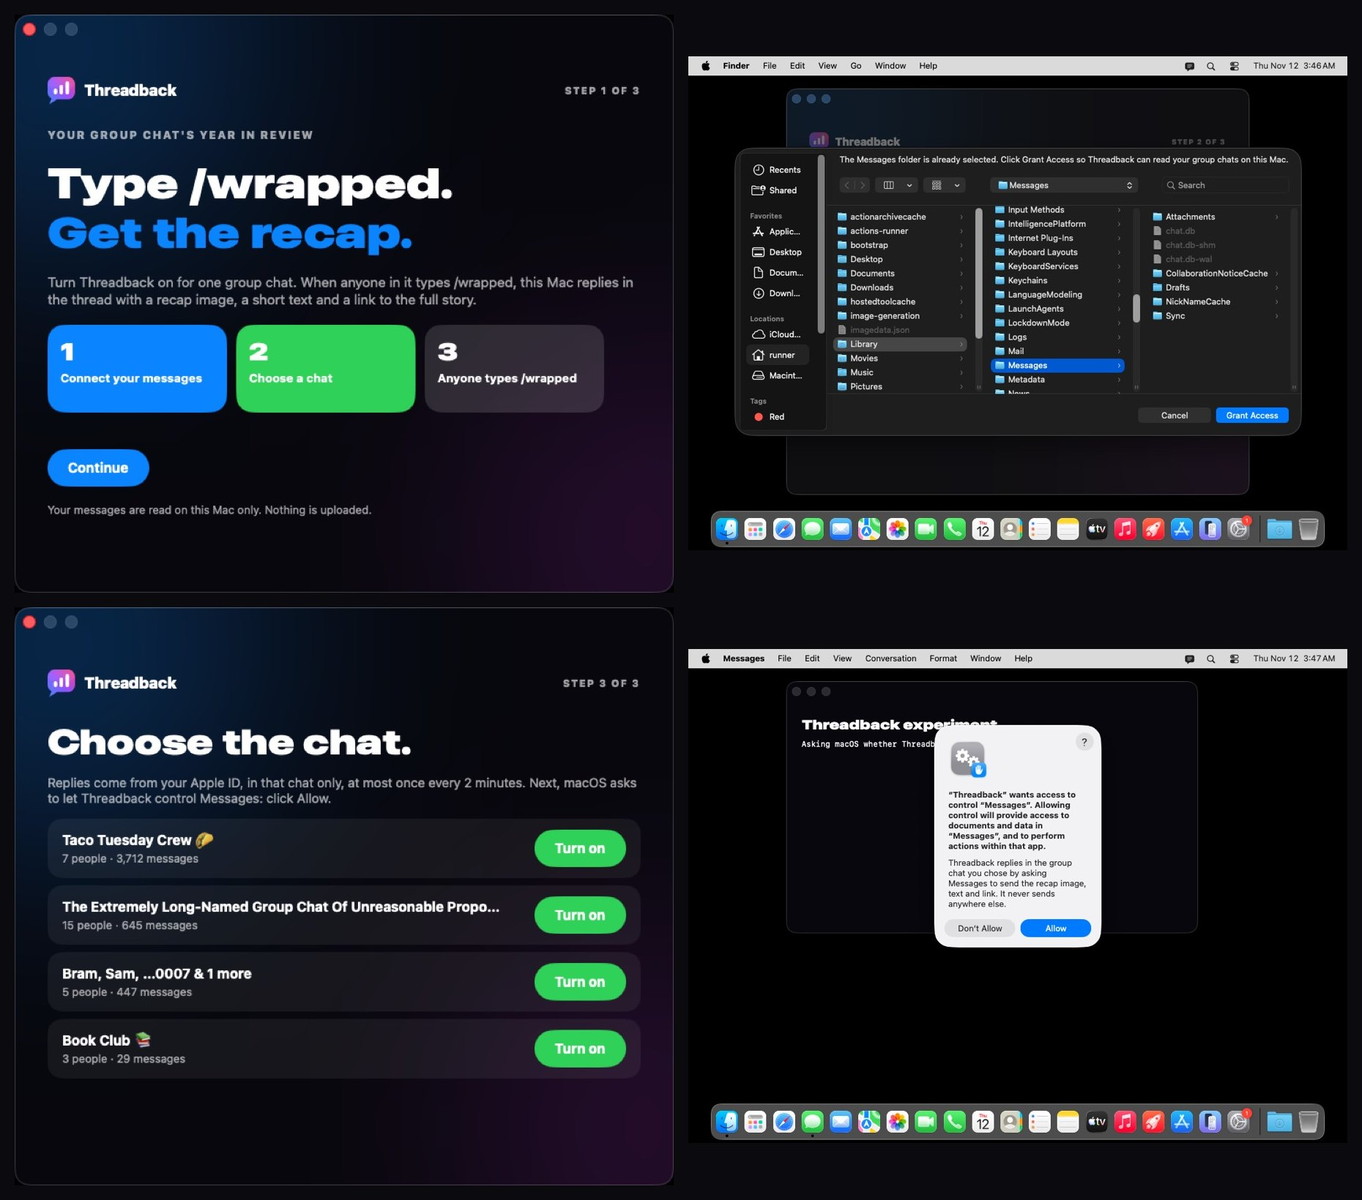
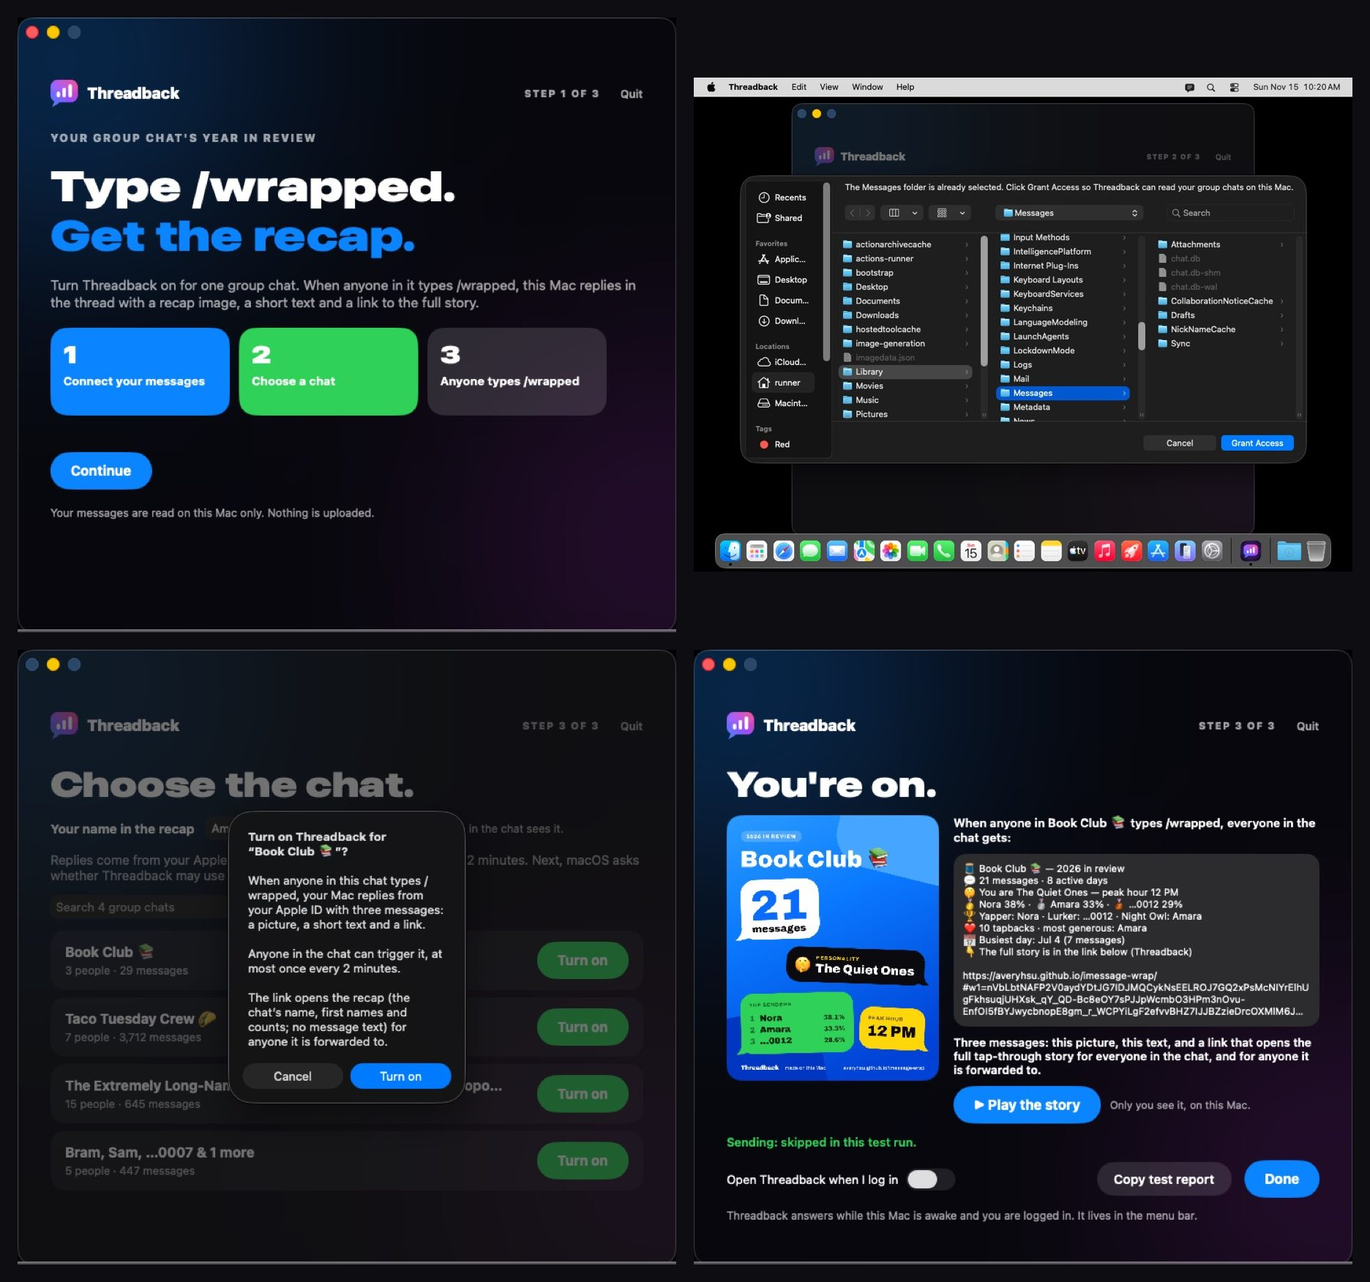
Docs: the Mac app write-up as it ships, and the third review (D17)
MAC-APP.md is rewritten around the app as the main way to use Threadback: what a
reply is, setup click by click, the rules it follows, what has been seen working
and what has not, and what the independent review found. DECISIONS gains D17.
The setup collage is rebuilt from the current screenshots.

Claude-Session: https://claude.ai/code/session_01HsT3WJgxawzje31yUV686t

diff --git a/docs/MAC-APP.md b/docs/MAC-APP.md
@@ -1,152 +1,183 @@
-# Threadback for Mac: can `/wrapped` be a few-click setup?
+# Threadback for Mac
 
-**Short answer: yes, the setup can be about ten clicks with no typing, no Terminal and no
-trip to System Settings.** It needs a real Mac app instead of the command-line helper, and,
-for strangers, Apple's paid developer program. One risk remains that setup cannot fix:
-whether macOS lets an app send into a group chat reliably. A working prototype of the app
-exists; two short tests on a real Mac decide the rest.
+The main way to use Threadback. One person in a group chat installs this small Mac app and
+turns it on for that chat. After that, anyone in the chat types `/wrapped` and that Mac
+answers in the thread.
+
+- **Get it:** https://averyhsu.github.io/imessage-wrap/mac/ (a page that walks through the
+  download and the first open).
+- **Direct download:**
+  [Threadback-for-Mac.dmg](https://github.com/averyhsu/imessage-wrap/releases/latest/download/Threadback-for-Mac.dmg),
+  from the [Releases page](https://github.com/averyhsu/imessage-wrap/releases).
+- **Needs:** macOS 14 or later, signed in to Messages. Apple and Intel chips.
 
 This page is the summary. The evidence is in
 [research note 07](research/07-mac-app-permission-floor.md) (permissions),
-[note 08](research/08-mac-one-click-distribution.md) (ways to ship it) and the prototype in
-[`mac/`](../mac/), with screenshots in [`screenshots/mac/`](screenshots/mac/).
+[note 08](research/08-mac-one-click-distribution.md) (ways to ship it), the code in
+[`mac/`](../mac/) and the pictures in [`screenshots/mac/`](screenshots/mac/).
 
-## What setup would look like
-
-For someone who has never opened Terminal, with a signed and notarized app:
-
-| # | What they do | Who asks |
-|---|--------------|----------|
-| 1 | Click **Download** on the site | us |
-| 2 | Open the download | macOS |
-| 3 | Drag Threadback to Applications (or accept "Move to Applications") | us |
-| 4 | Double-click Threadback | – |
-| 5 | Click **Open** on "downloaded from the Internet" | macOS |
-| 6 | Click **Continue** on the welcome screen | us |
-| 7 | Click **Grant Access** in a file window that already shows the Messages folder | macOS |
-| 8 | Click **Allow** so people show by first name (optional) | macOS |
-| 9 | Click **Turn on** next to one group chat | us |
-| 10 | Click **Allow** when macOS asks whether Threadback may control Messages | macOS |
-
-After that, anyone in the chat types `/wrapped` and the Mac answers. Steps 5, 7, 8 and 10
-are macOS's own prompts; no app can remove them. Everything else in today's guide goes
-away: Terminal, the install command, Full Disk Access, typing chat names.
-
-**Why there is no Full Disk Access step.** When a person picks the Messages folder in the
-standard Open window, macOS treats that as consent for that one folder. Two shipping apps
-set themselves up this way, and Apple's engineers describe the rule. Full Disk Access stays
-as a fallback only.
-
-## What exists now
-
-A prototype menu-bar app, built and driven on GitHub's Mac runners (macOS 26):
-
-- A normal double-clickable app, 2.7 MB, for both Apple and Intel chips.
-- It reuses the existing counting code unchanged. On five invented chats its numbers are
-  byte-for-byte the same as the command-line tool's, and its text reply is identical.
-- The three setup screens above are real and photographed, including the Messages folder
-  window with its "Grant Access" button and macOS's own "Threadback wants access to control
-  Messages" prompt.
-- It follows the helper's safety rules: replies only in chats you turned on, at most once
-  every two minutes, never to old messages or its own, and it checks every send.
-- It cannot send anything in CI, by design.
-
-![The prototype on a macOS 26 runner: the welcome screen, the Messages folder window with its Grant Access button, choosing a chat, and macOS asking whether Threadback may control Messages](media/mac-app-setup.jpg)
+![The app on a macOS 26 runner: the welcome screen, the Messages folder window with its Grant Access button, the sheet that says what a reply will be before a chat is turned on, and the last screen showing the picture, text and link everyone gets](media/mac-app-setup.jpg)
 
 All chats in these pictures are invented.
 
-## What a real Mac has confirmed
+## What a reply is
 
-The owner ran both tests on 2026-11-15 on their own Mac (macOS 26.7.1, Apple silicon) with
-the unsigned test build (commit `9872b81`), and pasted the app's test report:
+Three messages, sent from the owner's Apple ID into the chat where `/wrapped` was typed:
+
+1. a picture: the chat's year on one card;
+2. a short text: messages, active days, the chat's personality, top senders, awards,
+   tapbacks, the busiest day;
+3. a link that opens the full tap-through story in any browser, for everyone in the chat.
+
+The link is the recap. It holds the chat's name, first names and the counts, packed into the
+part after `#`, which browsers never send to a website. It never holds the words of a
+message. Anyone the link is passed on to can open it. When Messages shows a link it may load
+the site's preview picture; that request does not include the recap.
+
+## Setup, click by click
+
+No typing, no Terminal, no Full Disk Access.
+
+| # | What the person does | Who asks |
+|---|----------------------|----------|
+| 1 | Click **Download** on the guide page | us |
+| 2 | Open the download; drag Threadback to Applications | macOS |
+| 3 | Double-click Threadback. macOS says "“Threadback” Not Opened". Click **Done** | macOS |
+| 4 | System Settings → Privacy & Security → **Open Anyway**, then confirm | macOS |
+| 5 | Click **Continue** on the welcome screen | us |
+| 6 | Click **Grant Access** in a file window that already shows the Messages folder | macOS |
+| 7 | Click **Allow** so people show by first name (optional) | macOS |
+| 8 | Click **Turn on** next to one group chat, read what a reply will be, click **Turn on** again | us |
+| 9 | Click **Allow** when macOS asks whether Threadback may control Messages | macOS |
+
+Steps 3 and 4 exist only because the app is not signed through Apple's paid developer
+program. With it they become one click on **Open**.
+
+**Why there is no Full Disk Access step.** When a person picks the Messages folder in the
+standard Open window, macOS treats that as consent for that one folder. Full Disk Access
+stays as a fallback only.
+
+## The rules it follows
+
+- It answers only in chats that were turned on, and it identifies a chat by its internal
+  id, never by its name. A renamed chat, or another chat with the same name, gets nothing.
+- Only a message that is exactly the command counts: `/wrapped` (or `/recap`) for this year
+  so far, `/wrapped 2025` for a past year, `/wrapped all` for everything. A sentence that
+  mentions the command, a tapback, an edit, a sticker or one of its own messages never does.
+- At most one reply per chat every two minutes. Nothing typed before the chat was turned
+  on, or more than ten minutes ago, is answered.
+- **Before a chat is turned on, the app says what a reply will be**, and the owner confirms.
+  If a later version changes what a reply carries, that chat is not answered until the
+  owner confirms again.
+- **Pause all** and **Turn off** take effect at once, even in the middle of a reply. A pause
+  is remembered when the app is reopened, and nothing typed during a pause is answered
+  afterwards.
+- At most 20 replies per chat in 24 hours. After three replies in an hour the wait between
+  replies grows from two minutes to ten.
+- Only one copy of the app runs at a time, so a command is never answered twice.
+- It looks for its own message in the Messages database after each send and reports what it
+  finds: delivered, sent, or written but not yet sent. When it cannot find it, it offers the
+  reply for the owner to send by hand.
+- It has no network code. The only thing it sends is the reply, through Messages.
+- It cannot send anything in CI, by design.
+
+## What has been seen working
+
+**In CI, on a macOS 26 runner, with invented chats:**
+
+- A normal double-clickable app of about 3 MB.
+- It runs the same counting code as the browser maker. On five invented chats its numbers
+  are byte-for-byte the same as the command-line tool's, and its text reply is identical.
+- The link it builds decodes back to the same recap, and the story plays from it in the
+  app's own window.
+- The setup screens above are real and photographed, including the Messages folder window
+  with its "Grant Access" button and macOS's own "control Messages" prompt.
+- The download is fetched the way a browser would and opened the way a double-click would.
+
+**On the owner's own Mac (macOS 26.7.1, Apple silicon, 2026-11-15, build `9872b81`):**
 
 - **The folder pick replaces Full Disk Access.** Before the pick, reading the Messages
   database failed with "Operation not permitted", so macOS really was guarding it. After one
   click on **Grant Access** the app read the database and its write-ahead log.
 - **A reply arrives in a real group chat.** `/wrapped` typed from a phone was answered with
-  the image and the text; both were confirmed in the database as delivered. So scripted
-  sending into a group works on macOS 26.7.1, at least on this Mac and with the
-  `any;+;` form of the chat's id.
+  the picture and the text. The app then found both in the Messages database with no error.
 - The disk image, the "Open Anyway" detour and the "control Messages" prompt were all got
   through by clicking.
 
-## What is still not proven
+That build did not send the link yet, because the site was not live then.
 
-1. **Staying connected** after quitting the app, restarting the Mac, or installing a newer
-   build. The report above came from the same launch as the grant.
-2. **Other Macs and versions.** One Mac on 26.7.1 is one data point. The send problem
-   reported for macOS 26 may be specific to some versions or accounts, so the send-by-hand
-   fallback stays.
-3. **Names.** Contacts access was declined in the test, so people showed as `…1234`.
+## What is not proven
 
-## Two tests on your Mac (about two minutes each)
+1. **The link in a real chat**: that it arrives, and how Messages shows it.
+2. **Staying connected** after quitting the app, restarting the Mac, or installing a newer
+   build. The owner's report came from the same launch as the grant.
+3. **Updates.** An app that is not signed through Apple's program looks like a new app to
+   macOS each time it changes. Expect to pick the Messages folder again and to allow control
+   of Messages again after every update. This is documented macOS behaviour; nobody has
+   watched it happen with this app.
+4. **Other Macs and versions.** One Mac on 26.7.1 is one data point. Sending to group chats
+   from a script is reported as unreliable on some versions of macOS 26 and 27, which is why
+   "send by hand" exists.
+5. **Delivery.** What Messages records about a message is all the app can see. "Delivered"
+   there is Messages' own word; the app cannot check each phone in the chat.
+6. **Names.** Contacts access was declined in the owner's test, so people showed as `…1234`.
+7. **The "Open Anyway" row.** The "Not Opened" window was photographed on the owner's Mac;
+   the row in System Settings was not, so the guide page's wording for it is marked as
+   approximate.
 
-Clicks only, no Terminal. You need macOS 14 or later, signed in to Messages.
+The checks for these are in [`STATUS.md`](../STATUS.md), "Your checks".
 
-**Get the app (once).**
-1. On the Mac, signed in to GitHub, open **Actions → Mac app → the latest green run**,
-   scroll to **Artifacts** and click **Threadback-for-Mac.dmg**.
-2. Double-click it in Downloads. A window opens showing Threadback, an Applications
-   shortcut and three steps. Drag **Threadback** onto **Applications**.
-3. Open Threadback from Applications. macOS shows "“Threadback” Not Opened". Click
-   **Done**, the lower button. Do not click the blue **Move to Trash**, and do not press
-   Return.
-4. Open **System Settings → Privacy & Security**, scroll down to Security, click
-   **Open Anyway** and confirm with your password or Touch ID. (This last step is the one
-   part nobody has photographed yet; tell us if it reads differently on your Mac.)
-5. Threadback opens with a normal Dock icon while its window is open. Every screen has a
-   **Quit** button, and closing the window before a chat is on quits the app.
+## An independent review
 
-**A. Can it read your messages after one folder pick?** Sends nothing.
-1. In System Settings → Privacy & Security → Full Disk Access, check Threadback is not
-   switched on.
-2. In Threadback click **Continue**, **Connect Messages…**, then **Grant Access** in the file
-   window (the Messages folder is already selected).
-3. Pass: green "Connected: N group chats, M messages." with your real numbers. If it shows
-   a red error instead, that is the answer too; **Use Full Disk Access instead** is the
-   fallback.
-4. Quit Threadback, restart the Mac, open it again from Applications. Pass: it still says
-   it is connected.
+After the owner's test, a reviewer who had not seen the app being written was asked to break
+it. The findings that mattered, all fixed and now covered by tests:
 
-**B. Does a reply arrive?** This sends real messages from your Apple ID into the chat you
-choose. This build sends the image and the text, and no link, because the story site is not
-live yet.
-1. Pick a small group chat whose members will not mind. Click **Continue**, **Turn on** next
-   to that chat, then **Allow** when macOS asks whether Threadback may control Messages.
-2. From your phone, type `/wrapped` as the whole message in that chat.
-3. Pass: within about ten seconds the image and the text arrive. Open Threadback again
-   from Applications: its window shows the last `/wrapped` with "Image: delivered" and
-   "Text: delivered". The same window has **Turn off** and **Quit Threadback**.
+- **Pause did not pause.** The window said "Paused" while a `/wrapped` was still answered.
+- **Two open copies both answered**, so a chat could get every reply twice.
+- **Turning a chat off did not stop a reply already on its way**, and could lead to a second
+  reply inside the two-minute wait.
+- **What a reply contains was shown after the click that turned it on**, and a chat turned
+  on when replies had no link would have started getting one without being asked again.
+- **Two chats with similar names could have received each other's picture**, because the
+  picture's file name was built from the chat's name.
+- "Delivered" could be claimed on the strength of a different message in the same chat.
+- A chat member typing `/wrapped` every two minutes could make the owner's Apple ID post
+  all day.
+- The picture could stop working for good after a crash in the part that draws it.
+- The job that builds the app could also publish it; now a separate, smaller job does.
 
-**Then send back the result.** In that window (or on the last setup screen) click
-**Copy test report**, and paste it to whoever is building this. The report has no names, chat names, numbers or message text: only your
-macOS version, whether each step worked, and error numbers.
+What the reviewer checked and could not break: a chat is approved by its internal id, the
+command rule, one reply per command, the way text is handed to Messages (never pasted into
+a script), read-only access to the database, the absence of any network code, and the
+masking of numbers and addresses in the picture, the text and the link.
 
-If A passes, the few-click setup is real. If B passes on your macOS version, so is the
-whole feature. If B fails, the app still works with one tap from you per reply.
+The merge of this version into `main` was held until these were fixed, so the public
+download never pointed at the build with the pause fault. The full list is in
+[DECISIONS](DECISIONS.md), D17.
 
-## What it takes to ship
+## How it is built and released
 
-| Need | Detail | Cost |
-|------|--------|------|
-| Apple Developer Program | Signs and notarizes the Mac app so it opens with one click. The same membership covers TestFlight for the iPhone app. Your legal name appears as the developer. First approval can take a few days. | $99 a year |
-| Finish the app | Roughly two weeks of work from the prototype: the send fallback, reconnecting when access is lost, settings for several chats, automatic updates, testing on clean Macs. | – |
-| A download page and releases | A page on the site and builds on GitHub Releases. This is a new public download. | Free |
-
-Without the developer program there is a free route: one pasted Terminal command that
-installs the same app, after which setup is the same clicks as above. It still means opening
-Terminal once, and macOS forgets the app's permissions on every update.
-
-Not possible: the Mac App Store (Apple rarely approves apps that control Messages), and
-any route with nothing to install.
+- Swift and SwiftUI; the Xcode project is generated by XcodeGen from
+  [`mac/project.yml`](../mac/project.yml). The counting code is the browser maker's
+  JavaScript engine, run unchanged inside the app, so the conformance suite covers it.
+- Every push that touches the app builds and tests it on a macOS runner
+  ([workflow](../.github/workflows/mac-app.yml)).
+- A build from `main` becomes the public download on the Releases page. A build from the
+  working branch becomes a rolling test build marked "pre-release".
+- The app is signed ad hoc, not by Apple. That is why macOS blocks the first open.
 
 ## Decisions
 
-Decided by the owner on 2026-11-12:
+- **No Apple Developer Program for now** (owner, 2026-11-12). It costs $99 a year. It would
+  remove the first-open detour, keep permissions across updates, and put the iPhone app on
+  TestFlight. The owner's legal name would appear as the developer.
+- **The Mac app is the main way to use Threadback** (owner, 2026-11-12), and its builds are
+  public on the Releases page (owner, 2026-11-15).
+- Not possible at any price: the Mac App Store (Apple rarely approves apps that control
+  Messages), and any route with nothing to install.
 
-- **No Apple Developer Program for now.** The app stays unsigned by Apple and ships by the
-  free route. Strangers will meet macOS's "could not verify" block once, or use the single
-  Terminal command that installs the same app.
-- **The Mac app is the direction** for `/wrapped`.
+## Not built yet
 
-Still open: tests A and B above, which decide how the app is finished.
+- Automatic updates. A new version is a new download.
+- Message text in a reply. The command-line helper can include the most-reacted messages if
+  asked; the app never does.

diff --git a/docs/DECISIONS.md b/docs/DECISIONS.md
@@ -43,6 +43,10 @@ allows**:
    interactive bubble and plays it inside Messages; and a Mac helper that answers a typed
    `/wrapped` in any group chat.
 
+**Update, 2026-11-15.** The last of these became the front door. A Mac app that answers a
+typed `/wrapped` is now the main way to use Threadback, and the browser maker is the
+alternative for people without it (D15, D17).
+
 ## Every path, scored
 
 Scores are 0–5, higher is better (Cost: 5 = free. Risk: 5 = low App Store / terms risk).
@@ -376,3 +380,43 @@ approval:
 - **Old artifacts are deleted daily** and new ones are kept three days. Uploads are
   best-effort everywhere, so a full store can no longer turn a good run red.
 
+
+### D17 — The Mac app becomes the front door, after a third review (2026-11-15)
+Once the owner's two tests had passed (D15), the Mac app stopped being an experiment.
+
+- **The site leads with it.** The front page now says "Type `/wrapped`. A Mac answers.", the
+  browser maker is the alternative for people without the app, and the last slide of every
+  story points there.
+- **Replies carry the link.** It was off while the site was not live. Turning it on changes
+  what leaves the Mac, so the app now stores, with each chat's approval, what a reply
+  carried when the owner agreed. When that changes, the chat is not answered until the owner
+  agrees again.
+- **A third independent review, before the public download was linked from the site.** A
+  reviewer who had not seen the app being written was asked to make it send to the wrong
+  chat, reply twice, or leak something. What it found and what was done:
+
+  | Finding | What was done |
+  |---------|---------------|
+  | **Pause did not pause**: a `/wrapped` was still answered while the window said "Paused", and a relaunch quietly resumed. | Pause is checked before every send, saved across launches, and nothing typed during a pause is answered later. |
+  | Two open copies of the app both answered. | A lock file: a second copy shows the first one's window and quits. |
+  | Turning a chat off did not stop a reply already in progress, and changing settings mid-reply could cause a second reply. | The live list of chats is checked before each of the three messages; one agent, changed on one queue. |
+  | What a reply contains was shown after the click that turned a chat on. | A confirmation sheet states it first; approvals record what was agreed to (above). |
+  | Two chats with similar names shared one picture file, so one chat's picture could reach the other. | Each send writes its own uniquely named file and deletes it afterwards. |
+  | A chat was looked up by row number with a fall-back to matching by name. | Id only; no fall-back. |
+  | "Delivered" could rest on some other message in the same chat. | A send counts only when the app finds its own exact message; it reports delivered, sent, or written but not yet sent. |
+  | No limit beyond one reply every two minutes. | 20 replies per chat per day, and a ten-minute wait after three in an hour. |
+  | The picture could fail for good after a crash in the web view that draws it. | The view is rebuilt after a crash or a stalled load; a natively drawn card is the fall-back. |
+  | The build job could publish, and its tools were not pinned. | The build job is read-only; a separate job that only handles the finished disk image may publish; tools are pinned by checksum; the unit tests also run against the release build. |
+  | Only twelve chats could be chosen; chat names reached the system log; the card's footer overprinted. | All chats, with search; nothing is logged in release builds; fixed, with a check in CI. |
+  | The guide page and release notes left out the link and what it carries. | Both now say that a reply is three messages, what the link holds and that anyone it is passed to can open it. |
+
+  What it could not break is listed in [`MAC-APP.md`](MAC-APP.md).
+- **The merge waited for the fixes.** The pull request was green when the review came back.
+  It was held anyway, because merging is what links the download from the public guide page,
+  and a build whose Pause button does nothing should not be the first one strangers get.
+- **Accepted, not changed.** A person without a contact name whose handle is an e-mail
+  address shows as the part before the `@` (up to 16 characters), which can be a full name;
+  and two people who share a first name and an initial are shown with their full contact
+  names. Both follow [`SCHEMA.md`](SCHEMA.md) §2 and are what makes people recognisable to
+  their own chat; the confirmation sheet says first names "and counts", which is the usual
+  case, not a guarantee.
